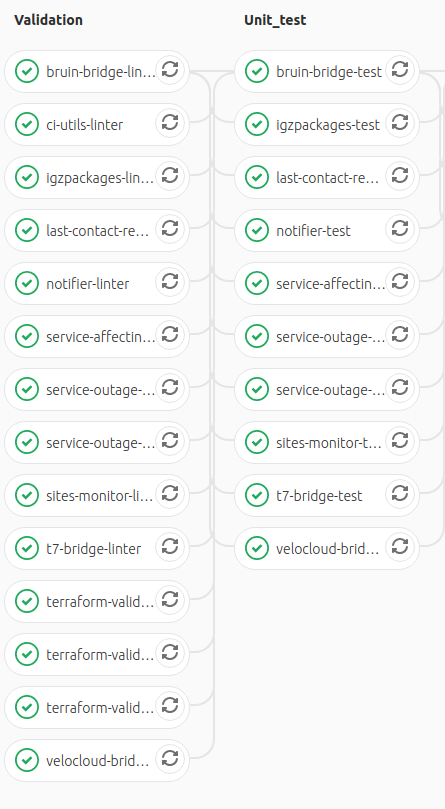
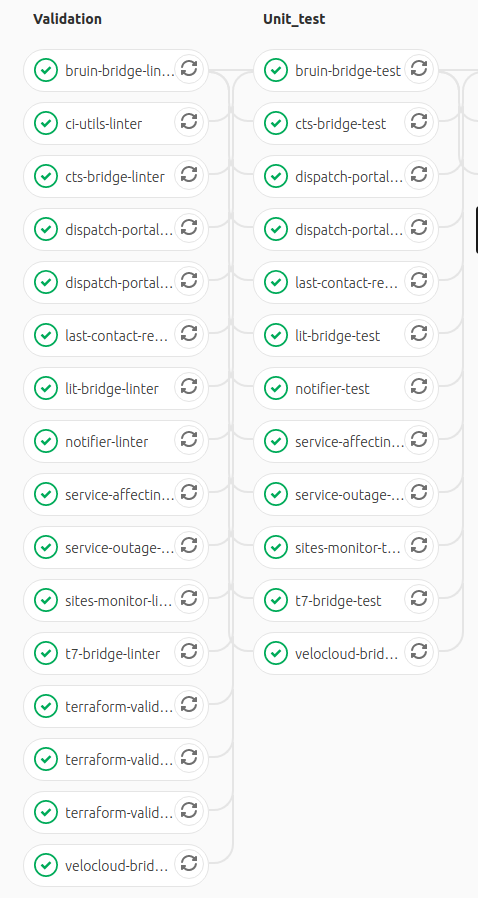
[docs] Updated documentation related with pipelines and infrastructure as code

diff --git a/ci-utils/delete_environments_aws_resources/s3.py b/ci-utils/delete_environments_aws_resources/s3.py
@@ -22,7 +22,7 @@ class S3Buckets:
         s3_bucket_prometheus = f's3://prometheus-storage-{environment}'
         if self._check_s3_bucket_exists(s3_bucket_prometheus):
             if self._delete_content_of_bucket_recursively(s3_bucket_prometheus):
-                logging.info(f"All contents of the bucket {s3_bucket_prometheus} have been successfully deleted")
+                logging.info(f"All contents of the bucket {bucket_prometheus} have been successfully deleted")
                 if self._delete_s3_bucket(bucket_prometheus):
                     logging.info(f"S3 Bucket {bucket_prometheus} was successfully removed")
                 else:
@@ -39,8 +39,9 @@ class S3Buckets:
                          f"directories to store Terraform state file "
                          f"that are going to be deleted")
             for element in s3buckets_check['buckets_list']:
-                logging.info(f"Removing directory {element} from s3 bucket {self._s3_bucket_backend_terraform}")
-                subprocess.call(['aws', 's3', 'rm', element, '--region', 'us-east-1'], stdout=FNULL)
+                s3_directory_to_delete = f"s3://{element['bucket_name']}/{element['bucket_file']}"
+                logging.info(f"Removing directory {element['bucket_file']} from s3 bucket {element['bucket_name']}")
+                subprocess.call(['aws', 's3', 'rm', s3_directory_to_delete, '--region', 'us-east-1'], stdout=FNULL)
         else:
             logging.error("The environment {} hasn't any associated directories in bucket {} to store Terraform "
                           "state file".format(environment, self._s3_bucket_backend_terraform))
@@ -49,7 +50,7 @@ class S3Buckets:
         has_s3_buckets = {'s3_buckets': False}
         s3_buckets_list_to_check = [
             {
-                "bucket_name": f"s3://{self._s3_bucket_backend_terraform}",
+                "bucket_name": f"{self._s3_bucket_backend_terraform}",
                 "bucket_file": f"terraform-{environment}-dev-resources.tfstate"
             }
         ]
@@ -83,9 +84,9 @@ class S3Buckets:
                                 stderr=subprocess.PIPE,
                                 universal_newlines=True)
         if result.returncode != 0 and result.stderr != '':
-            print(f"S3 bucket {bucket_name} doesn't exists")
+            logging.error(f"S3 bucket {bucket_name} doesn't exists")
             return False
-        print(f"S3 Bucket {bucket_name} exists")
+        logging.info(f"S3 Bucket {bucket_name} exists")
         return True
 
     @staticmethod

diff --git a/ci-utils/aws-nuke/aws_nuke_conf_generator.py b/ci-utils/aws-nuke/aws_nuke_conf_generator.py
@@ -28,8 +28,7 @@ _aws_common_resources_list = ['CloudWatchLogsLogGroup',
                               'ECSTaskDefinition',
                               'ELBv2',
                               'ELBv2TargetGroup',
-                              'EC2SecurityGroup',
-                              'S3Bucket']
+                              'EC2SecurityGroup']
 
 
 def _print_usage():
@@ -72,10 +71,7 @@ class AWSNukeConfigurationGenerator:
                 self._generate_rules_aws_nuke_contains('ECSTaskDefinition', environment_name),
                 self._generate_rules_aws_nuke_has_property('ELBv2', 'tag:Environment', environment_name),
                 self._generate_rules_aws_nuke_has_property('ELBv2TargetGroup', 'tag:Environment', environment_name),
-                self._generate_rule_aws_nuke_property_contains('EC2SecurityGroup', 'Name', environment_name),
-                self._generate_rules_aws_nuke_has_property('S3Bucket', 'tag:Environment', environment_name),
-                self._generate_rules_aws_nuke_has_property('S3Object', 'Key',
-                                                           f'terraform-{environment_name}-dev-resources.tfstate')]
+                self._generate_rule_aws_nuke_property_contains('EC2SecurityGroup', 'Name', environment_name)]
 
     def _generate_aws_nuke_configuration_for_service_discovery_environment(self, environment_name):
         aws_nuke_rules_services = []

diff --git a/docs/PIPELINES.md b/docs/PIPELINES.md
@@ -70,12 +70,18 @@ In these jobs services in the monorepo will be deployed to the selected environm
   * An [ECS Service](https://docs.aws.amazon.com/AmazonECS/latest/developerguide/ecs_services.html) that will use the new Docker image uploaded for each service of the project, being these services the specified below:
 
     * [bruin-bridge](../bruin-bridge)
+    
+    * [cts-bridge](../cts-bridge)
+    
+    * [dispatch-portal-backend](../dispatch-portal-backend)
+    
+    * [dispatch-portal-frontend](../dispatch-portal-frontend)
 
-    * [las-contact-report](../last-contact-report)
+    * [last-contact-report](../last-contact-report)
+    
+    * [lit-bridge](../lit-bridge)
 
-    * [metrics-grafana](../metrics-dashboard/grafana)
-
-    * [metrics-prometheus](../metrics-dashboard/prometheus)
+    * [metrics-prometheus](../metrics-dashboard/grafana)
 
     * [nats-server, nats-server-1, nats-server-2](../nats-server)
 
@@ -83,13 +89,13 @@ In these jobs services in the monorepo will be deployed to the selected environm
 
     * [service-affecting-monitor](../service-affecting-monitor)
 
-    * [service-outage-monitor](../service-outage-monitor)
+    * [service-outage-monitor-1, service-outage-monitor-2, service-outage-monitor-3, service-outage-monitor-4, service-outage-monitor-triage](../service-outage-monitor)
+    
+    * [sites-monitor](../sites-monitor)
 
     * [t7-bridge](../t7-bridge)
 
     * [velocloud-bridge](../velocloud-bridge)
-
-    * [sites-monitor](../sites-monitor)
 
   * A [Task Definition](https://docs.aws.amazon.com/AmazonECS/latest/developerguide/example_task_definitions.html) for each of the above *ECS Services*
 
@@ -115,13 +121,39 @@ In this process, a series of resources will also be created in AWS for the selec
 
 * A [CloudFormation Stack](https://docs.aws.amazon.com/AWSCloudFormation/latest/UserGuide/stacks.html) for create the [SNS topic](https://docs.aws.amazon.com/AWSCloudFormation/latest/UserGuide/aws-properties-sns-topic.html) that will be used by *CloudWatch Alarms* notifications of this environment
 
-Also, resources of type `null_resource` are created to execute some Python scripts:
+* A [S3 bucket](https://docs.aws.amazon.com/AmazonS3/latest/gsg/GetStartedWithS3.html) to store the content of the metrics obtained by [Thanos](https://thanos.io/) and displayed through [Grafana](https://grafana.com/).
 
-1. The creation of [ECS Services](https://docs.aws.amazon.com/AmazonECS/latest/developerguide/ecs_services.html) starts only if a Python script launched as a `null_resource` finishes with success. This script checks that the last ECS service created for NATS is running in `HEALTHY` state.
+Also, resources of type [null_resource](https://www.terraform.io/docs/providers/null/resource.html) are created to execute some Python scripts:
 
-2. If the previous step succeeded then ECS services related to capabilities microservices are created (`bruin-bridge`, `velocloud-bridge`, `t7-bridge`, `notifier` and `prometheus`). Once created, the script used for NATS is launched through `null_resource` to check that the task instances for each of these ECS services were created successfully and are in `RUNNING` and `HEALTHY` status.
+1. The creation of [ECS Services](https://docs.aws.amazon.com/AmazonECS/latest/developerguide/ecs_services.html) starts only if a Python script launched as a `null_resource` finishes with success. 
 
-3. Once all the scripts for the capabilities microservices have finished successfully, ECS services for the use-cases microservices are all created; that is, [last-contact-report](../last-contact-report), [service-affecting-monitor](../service-affecting-monitor), [service-outage-monitor](../service-outage-monitor) and [sites-monitor](../sites-monitor) are created. This is achieved by defining explicit dependencies between the ECS services for the capabilities microservices and the set of null resources that perform the healthcheck of the capabilities microservices.
+    This script checks that the last ECS service created for NATS is running in `HEALTHY` state.
+
+2. If the previous step succeeded then ECS services related to capabilities microservices are created, with these being the following:
+
+    - `bruin-bridge`
+    - `cts-bridge`
+    - `lit-bridge`
+    - `notifier`
+    - `prometheus`
+    - `t7-bridge`
+    - `velocloud-bridge` 
+
+    Once created, the script used for NATS is launched through `null_resource` to check that the task instances for each of these ECS services were created successfully and are in `RUNNING` and `HEALTHY` status.
+
+3. Once all the scripts for the capabilities microservices have finished successfully, ECS services for the use-cases microservices are all created, with these being the following:
+    
+    - `dispatch-portal-backend`
+	- `last-contact-report`
+	- `service-affecting-monitor`
+	- `service-outage-monitor-1`
+	- `service-outage-monitor-2`
+	- `service-outage-monitor-3`
+	- `service-outage-monitor-4`
+	- `service-outage-monitor-triage`
+	- `sites-monitor`
+
+   This is achieved by defining explicit dependencies between the ECS services for the capabilities microservices and the set of null resources that perform the healthcheck of the capabilities microservices.
 
    The following is an example of a definition for the use-case microservice `service-affecting-monitor` using [*Terraform*](https://www.terraform.io/). Here, the dependency between the corresponding `null_resource` type resources in charge of performing the health check of the different capabilities microservices in Terraform code for this microservice is established.
 
@@ -130,15 +162,18 @@ Also, resources of type `null_resource` are created to execute some Python scrip
 
       . . .
 
-      depends_on = [ null_resource.bruin-bridge-healthcheck,
-                     null_resource.velocloud-bridge-healthcheck,
-                     null_resource.t7-bridge-healthcheck,
-                     null_resource.notifier-healthcheck,
-                     null_resource.metrics-prometheus-healthcheck ]
+        depends_on = [ null_resource.bruin-bridge-healthcheck,
+                       null_resource.cts-bridge-healthcheck,
+                       null_resource.lit-bridge-healthcheck,
+                       null_resource.velocloud-bridge-healthcheck,
+                       null_resource.t7-bridge-healthcheck,
+                       null_resource.notifier-healthcheck,
+                       null_resource.metrics-prometheus-healthcheck ]
+      . . .
    }
    ```
 
    >This procedure has been done to ensure that use case microservices are not created in ECS until new versions of the capability-type microservices are properly deployed, as use case microservices need to use capability-type microservices.
 
 ---
-With passion from the [Intelygenz](https://www.intelygenz.com) Team @ 2019
+With passion from the [Intelygenz](https://www.intelygenz.com) Team @ 2020

diff --git a/README.md b/README.md
@@ -9,16 +9,16 @@
 | Module      | Coverage |
 |:-----------:|:--------:|
 | bruin-bridge |[![bruin-bridge-test](https://gitlab.intelygenz.com/mettel/automation-engine/badges/master/coverage.svg?job=bruin-bridge-test)](https://gitlab.intelygenz.com/mettel/automation-engine/commits/master)
+| cts-bridge |[![cts-bridge-test](https://gitlab.intelygenz.com/mettel/automation-engine/badges/master/coverage.svg?job=cts-bridge-test)](https://gitlab.intelygenz.com/mettel/automation-engine/commits/master)
 | dispatch-portal-backend |[![dispatch-portal-backend-test](https://gitlab.intelygenz.com/mettel/automation-engine/badges/master/coverage.svg?job=dispatch-portal-backend-test)](https://gitlab.intelygenz.com/mettel/automation-engine/commits/master)
-| igzpackages |[![igzpackages-test](https://gitlab.intelygenz.com/mettel/automation-engine/badges/master/coverage.svg?job=igzpackages-test)](https://gitlab.intelygenz.com/mettel/automation-engine/commits/master)
 | last-contact-report |[![last-contact-report-test](https://gitlab.intelygenz.com/mettel/automation-engine/badges/master/coverage.svg?job=last-contact-report-test)](https://gitlab.intelygenz.com/mettel/automation-engine/commits/master)
 | lit-bridge|[![lit-bridge-test](https://gitlab.intelygenz.com/mettel/automation-engine/badges/master/coverage.svg?job=lit-bridge-test)](https://gitlab.intelygenz.com/mettel/automation-engine/commits/master)
 | notifier|[![notifier-test](https://gitlab.intelygenz.com/mettel/automation-engine/badges/master/coverage.svg?job=notifier-test)](https://gitlab.intelygenz.com/mettel/automation-engine/commits/master)
 | service-affecting-monitor|[![service-affecting-monitor-test](https://gitlab.intelygenz.com/mettel/automation-engine/badges/master/coverage.svg?job=service-affecting-monitor-test)](https://gitlab.intelygenz.com/mettel/automation-engine/commits/master)
 | service-outage-monitor|[![service-outage-monitor-test](https://gitlab.intelygenz.com/mettel/automation-engine/badges/master/coverage.svg?job=service-outage-monitor-test)](https://gitlab.intelygenz.com/mettel/automation-engine/commits/master)
+| sites-monitor|[![sites-monitor-test](https://gitlab.intelygenz.com/mettel/automation-engine/badges/master/coverage.svg?job=sites-monitor-test)](https://gitlab.intelygenz.com/mettel/automation-engine/commits/master)
 | t7-bridge|[![t7-bridge-test](https://gitlab.intelygenz.com/mettel/automation-engine/badges/master/coverage.svg?job=t7-bridge-test)](https://gitlab.intelygenz.com/mettel/automation-engine/commits/master)
 | velocloud-bridge|[![velocloud-bridge-test](https://gitlab.intelygenz.com/mettel/automation-engine/badges/master/coverage.svg?job=velocloud-bridge-test)](https://gitlab.intelygenz.com/mettel/automation-engine/commits/master)
-| sites-monitor|[![sites-monitor-test](https://gitlab.intelygenz.com/mettel/automation-engine/badges/master/coverage.svg?job=sites-monitor-test)](https://gitlab.intelygenz.com/mettel/automation-engine/commits/master)
 
 # Table of Contents
 

diff --git a/docs/SYSTEM_OVERVIEW.md b/docs/SYSTEM_OVERVIEW.md
@@ -189,4 +189,4 @@ In the following [diagram](https://www.draw.io/#G1s8eD7_XNplcVC6b-Aqtjd1p_Vf2quP
 When deploying an environment it will use the resources belonging to the environment type. This approach has been implemented so that regardless of the number of ECS clusters being used, the same public IPs are always used to make requests outward from the different environments.
 
 ---
-With passion from the [Intelygenz](https://www.intelygenz.com) Team @ 2019
+With passion from the [Intelygenz](https://www.intelygenz.com) Team @ 2020

diff --git a/docs/MONOREPO.md b/docs/MONOREPO.md
@@ -26,4 +26,4 @@ versions of one project are related to the other and then syncing them.
 + This is not only a repository, it's a sum of good practices between automation, code and documentation.
 
 ---
-With passion from the [Intelygenz](https://www.intelygenz.com) Team @ 2019
+With passion from the [Intelygenz](https://www.intelygenz.com) Team @ 2020

diff --git a/docs/README.md b/docs/README.md
@@ -18,4 +18,4 @@
         + [Network infrastructure](SYSTEM_OVERVIEW.md#network-infrastructure)
 
 ---
-With passion from the [Intelygenz](https://www.intelygenz.com) Team @ 2019
+With passion from the [Intelygenz](https://www.intelygenz.com) Team @ 2020
